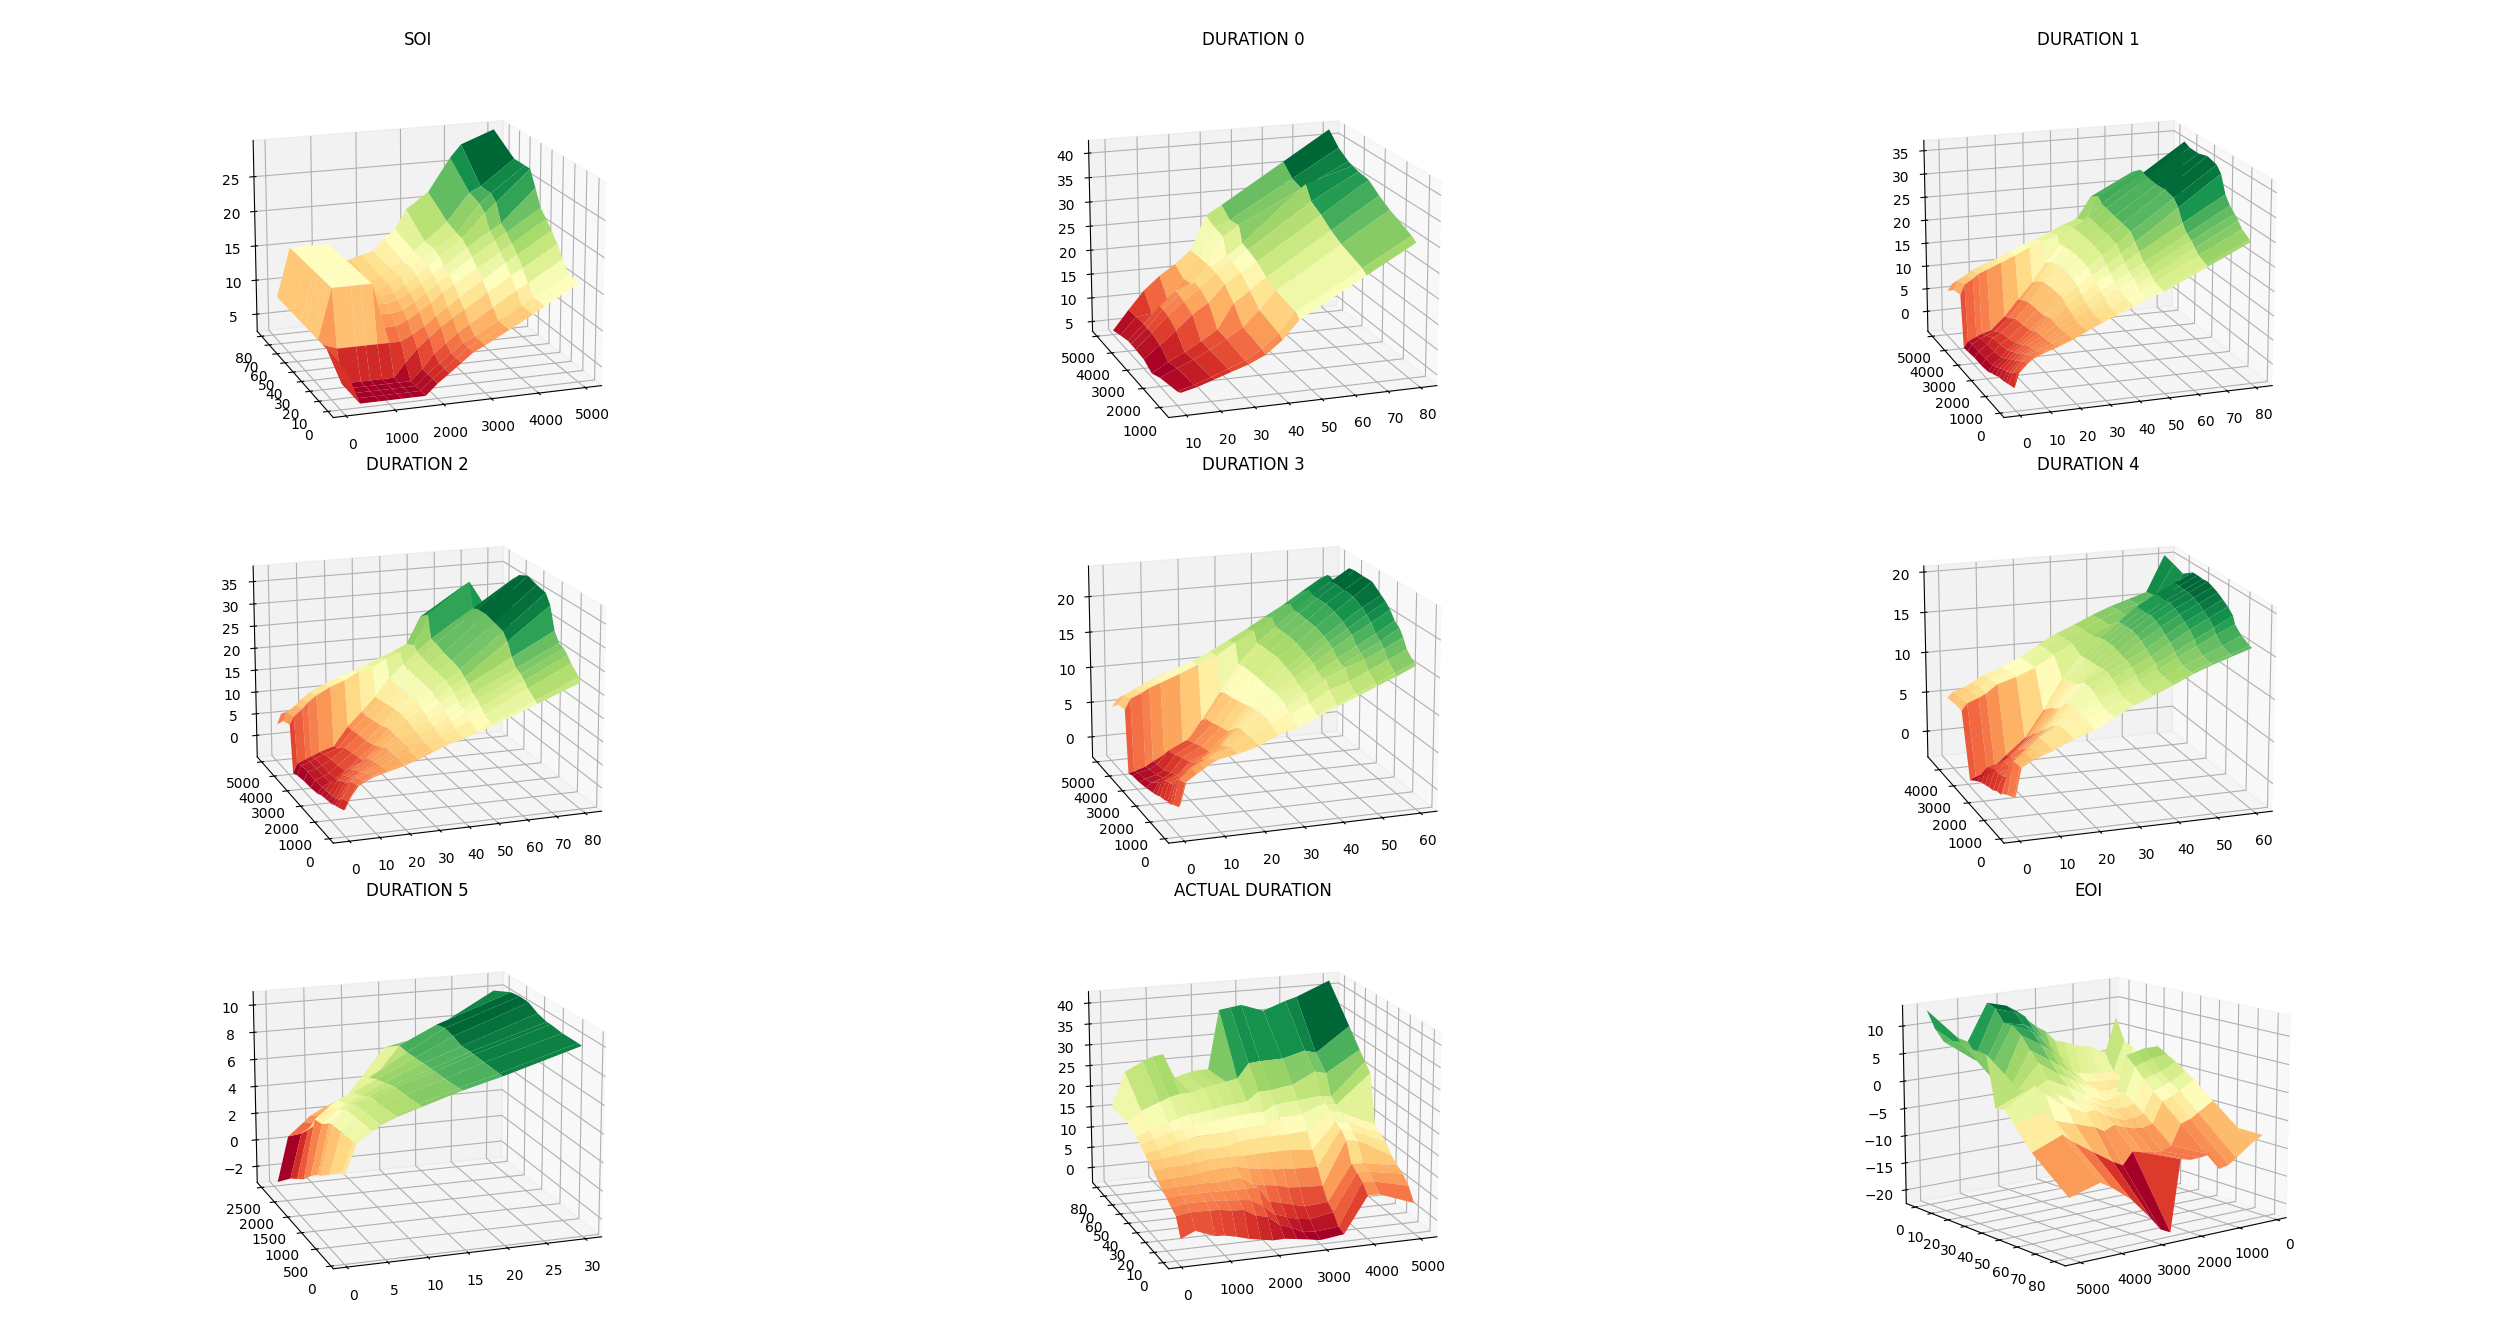
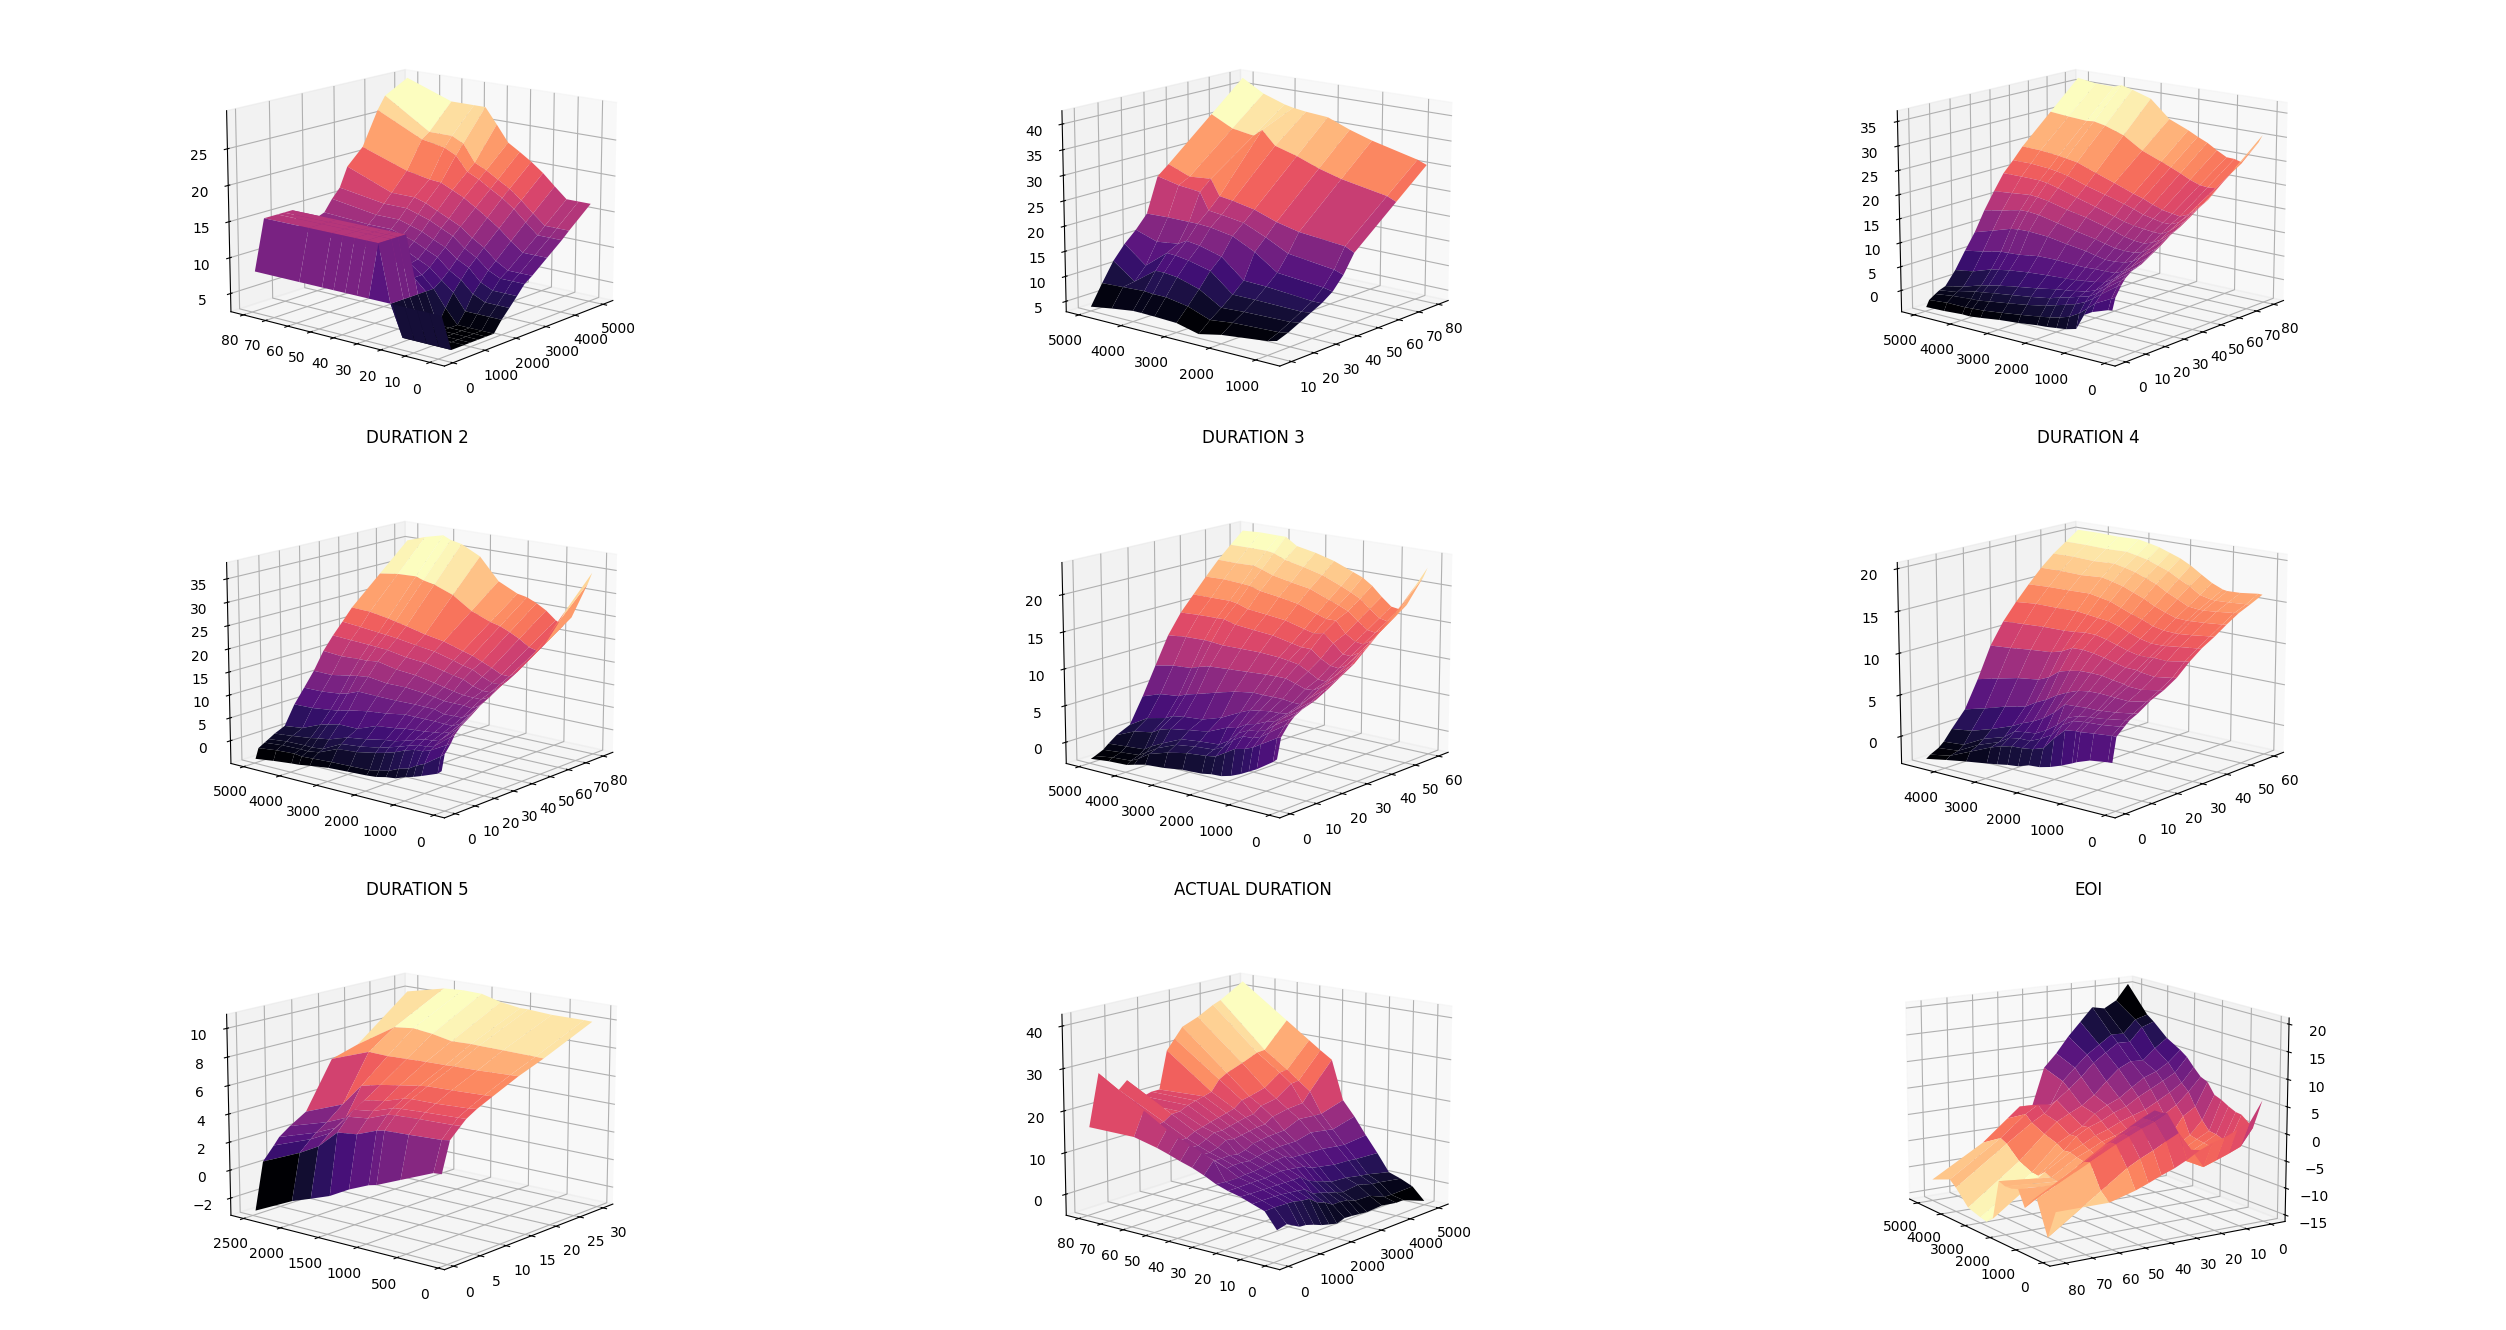
Fix map addresses, usability changes

diff --git a/maps.py b/maps.py
@@ -24,7 +24,7 @@ with open("CURRENT.bin", mode="rb") as bin:
     )
 
     durations = [
-        Map(
+        Map( #00
             file=bin,
             config={
                 "start": 0x7946A,
@@ -35,10 +35,10 @@ with open("CURRENT.bin", mode="rb") as bin:
                 "y_fun": lambda x: x,
             },
         ),
-        Map(
+        Map( #01
             file=bin,
             config={
-                "start": 0x7957E,
+                "start": 0x79578,
                 "fun": lambda x: x * 0.023437,
                 "x": 0x79536,
                 "x_fun": lambda x: x * 0.01,
@@ -46,10 +46,10 @@ with open("CURRENT.bin", mode="rb") as bin:
                 "y_fun": lambda x: x,
             },
         ),
-        Map(
+        Map( #02
             file=bin,
             config={
-                "start": 0x79804,
+                "start": 0x797FE,
                 "fun": lambda x: x * 0.023437,
                 "x": 0x797BC,
                 "x_fun": lambda x: x * 0.01,
@@ -57,10 +57,10 @@ with open("CURRENT.bin", mode="rb") as bin:
                 "y_fun": lambda x: x,
             },
         ),
-        Map(
+        Map( #03
             file=bin,
             config={
-                "start": 0x79A8A,
+                "start": 0x79A84,
                 "fun": lambda x: x * 0.023437,
                 "x": 0x79A42,
                 "x_fun": lambda x: x * 0.01,
@@ -68,10 +68,10 @@ with open("CURRENT.bin", mode="rb") as bin:
                 "y_fun": lambda x: x,
             },
         ),
-        Map(
+        Map( #04
             file=bin,
             config={
-                "start": 0x79D10,
+                "start": 0x79D0A,
                 "fun": lambda x: x * 0.023437,
                 "x": 0x79CC8,
                 "x_fun": lambda x: x * 0.01,
@@ -79,7 +79,7 @@ with open("CURRENT.bin", mode="rb") as bin:
                 "y_fun": lambda x: x,
             },
         ),
-        Map(
+        Map( #05
             file=bin,
             config={
                 "start": 0x79F78,

diff --git a/eoi.py b/eoi.py
@@ -68,9 +68,9 @@ if __name__ == "__main__":
     print()
 
     for i in range(len(durations)):
-        # print(f'DURATION {i}')
-        # print(durations[i])
-        # print()
+        print(f'DURATION {i}')
+        print(durations[i])
+        print()
         axs[i + 1].set_title(f"DURATION {i}")
         durations[i].show_graph(axs[i + 1])
 
@@ -95,7 +95,7 @@ if __name__ == "__main__":
 
     print("EOI")
     print(eoi)
-    eoi.show_graph(axs[8])
+    eoi.show_graph(axs[8], plt.get_cmap('magma').reversed())
     axs[8].set_title("EOI")
     print()
 

diff --git a/edcmap.py b/edcmap.py
@@ -87,8 +87,8 @@ class Map:
 
         return interp((y, x)).item()
 
-    def show_graph(self, ax):
+    def show_graph(self, ax, cmap=None):
         X = np.array(self.x).reshape(len(self.x), 1)
         Y = np.array(self.y)
         Z = np.array(self.lines)
-        ax.plot_surface(X, Y, Z, cmap=cm.magma)
+        ax.plot_surface(X, Y, Z, cmap=cm.magma if cmap is None else cmap)
